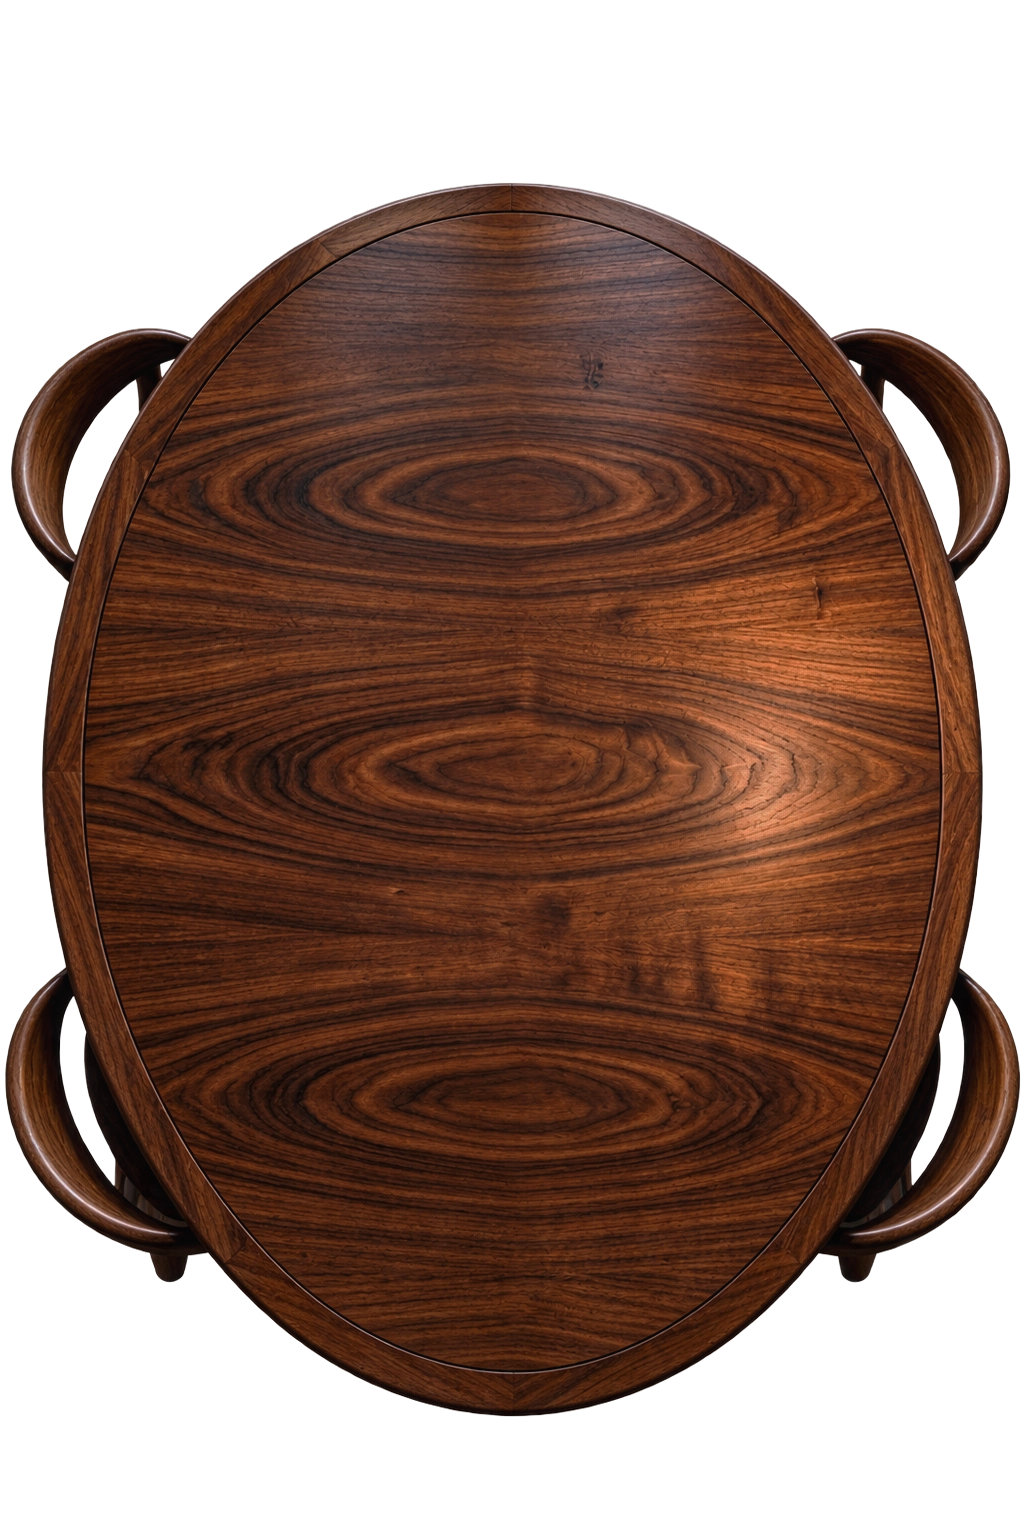
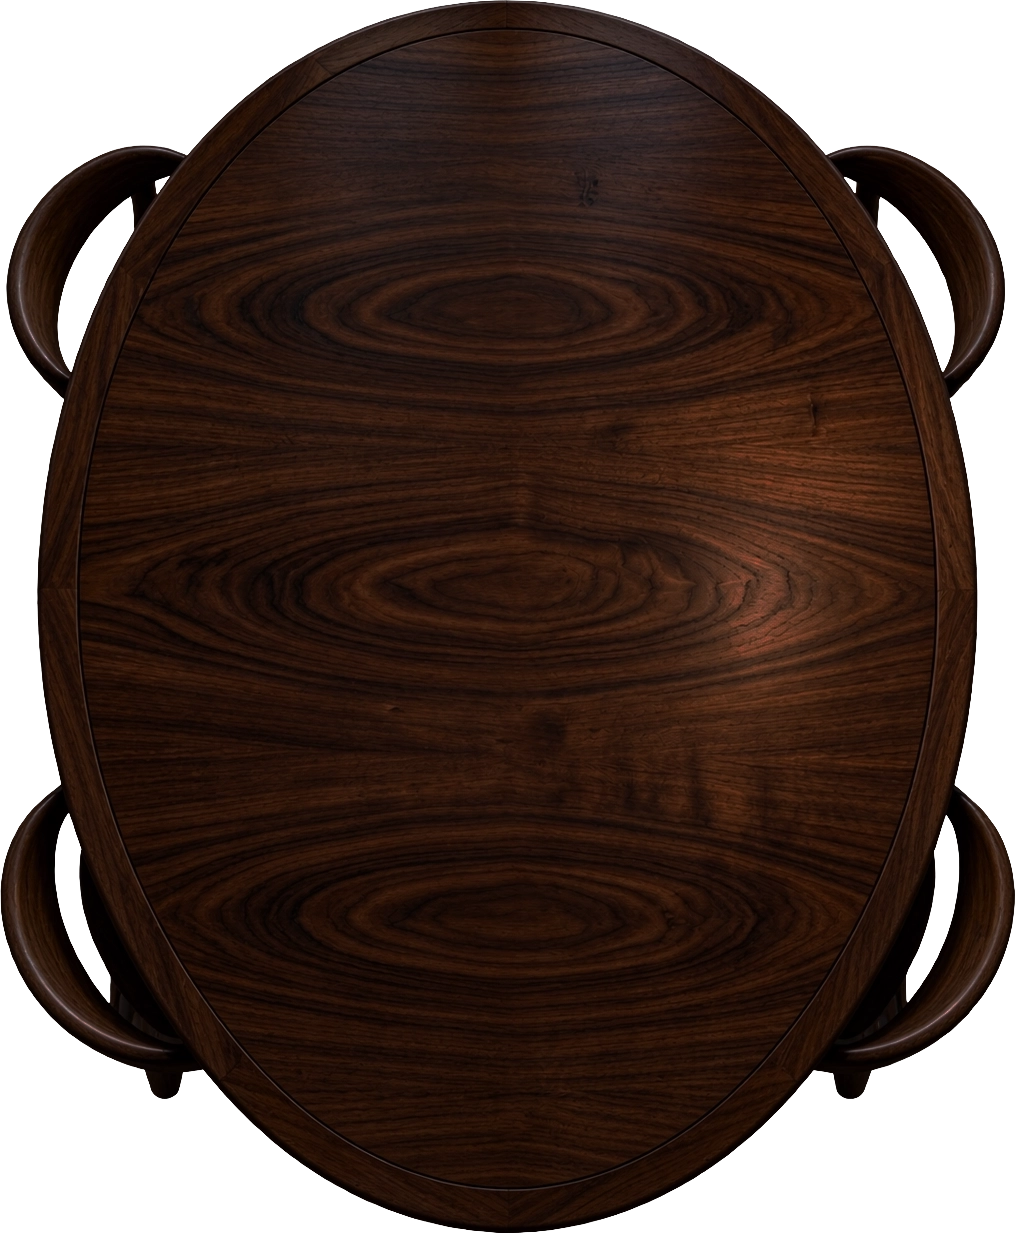
feat: darker team scene with a taller floor and a tighter table

diff --git a/app/investigation/[investigationId]/team/page.tsx b/app/investigation/[investigationId]/team/page.tsx
@@ -29,8 +29,8 @@ const TeamPage = async ({ params }: { params: Promise<{ investigationId: string 
       <Scene
         background="/images/backgrounds/team-floor.webp"
         image="/images/item-backgrounds/team-table.webp"
-        width={1024}
-        height={1536}
+        width={1015}
+        height={1233}
       >
         {tableSeatPositions.map((position, i) => (
           <Seat key={position} profile={team_members[i]?.profiles} className={position} />

diff --git a/app/components/Seat.tsx b/app/components/Seat.tsx
@@ -3,10 +3,10 @@ import type { IProfile } from '@/lib/interfaces/gameRelated';
 
 // Stolarna i team-table.webp, i samma ordning som team_members.
 export const tableSeatPositions = [
-  'top-[25%] left-[13%]',
-  'top-[25%] left-[87%]',
-  'top-[70%] left-[13%]',
-  'top-[70%] left-[87%]',
+  'top-[24%] left-[12%]',
+  'top-[24%] left-[88%]',
+  'top-[75%] left-[12%]',
+  'top-[75%] left-[88%]',
 ];
 
 interface IParams {
